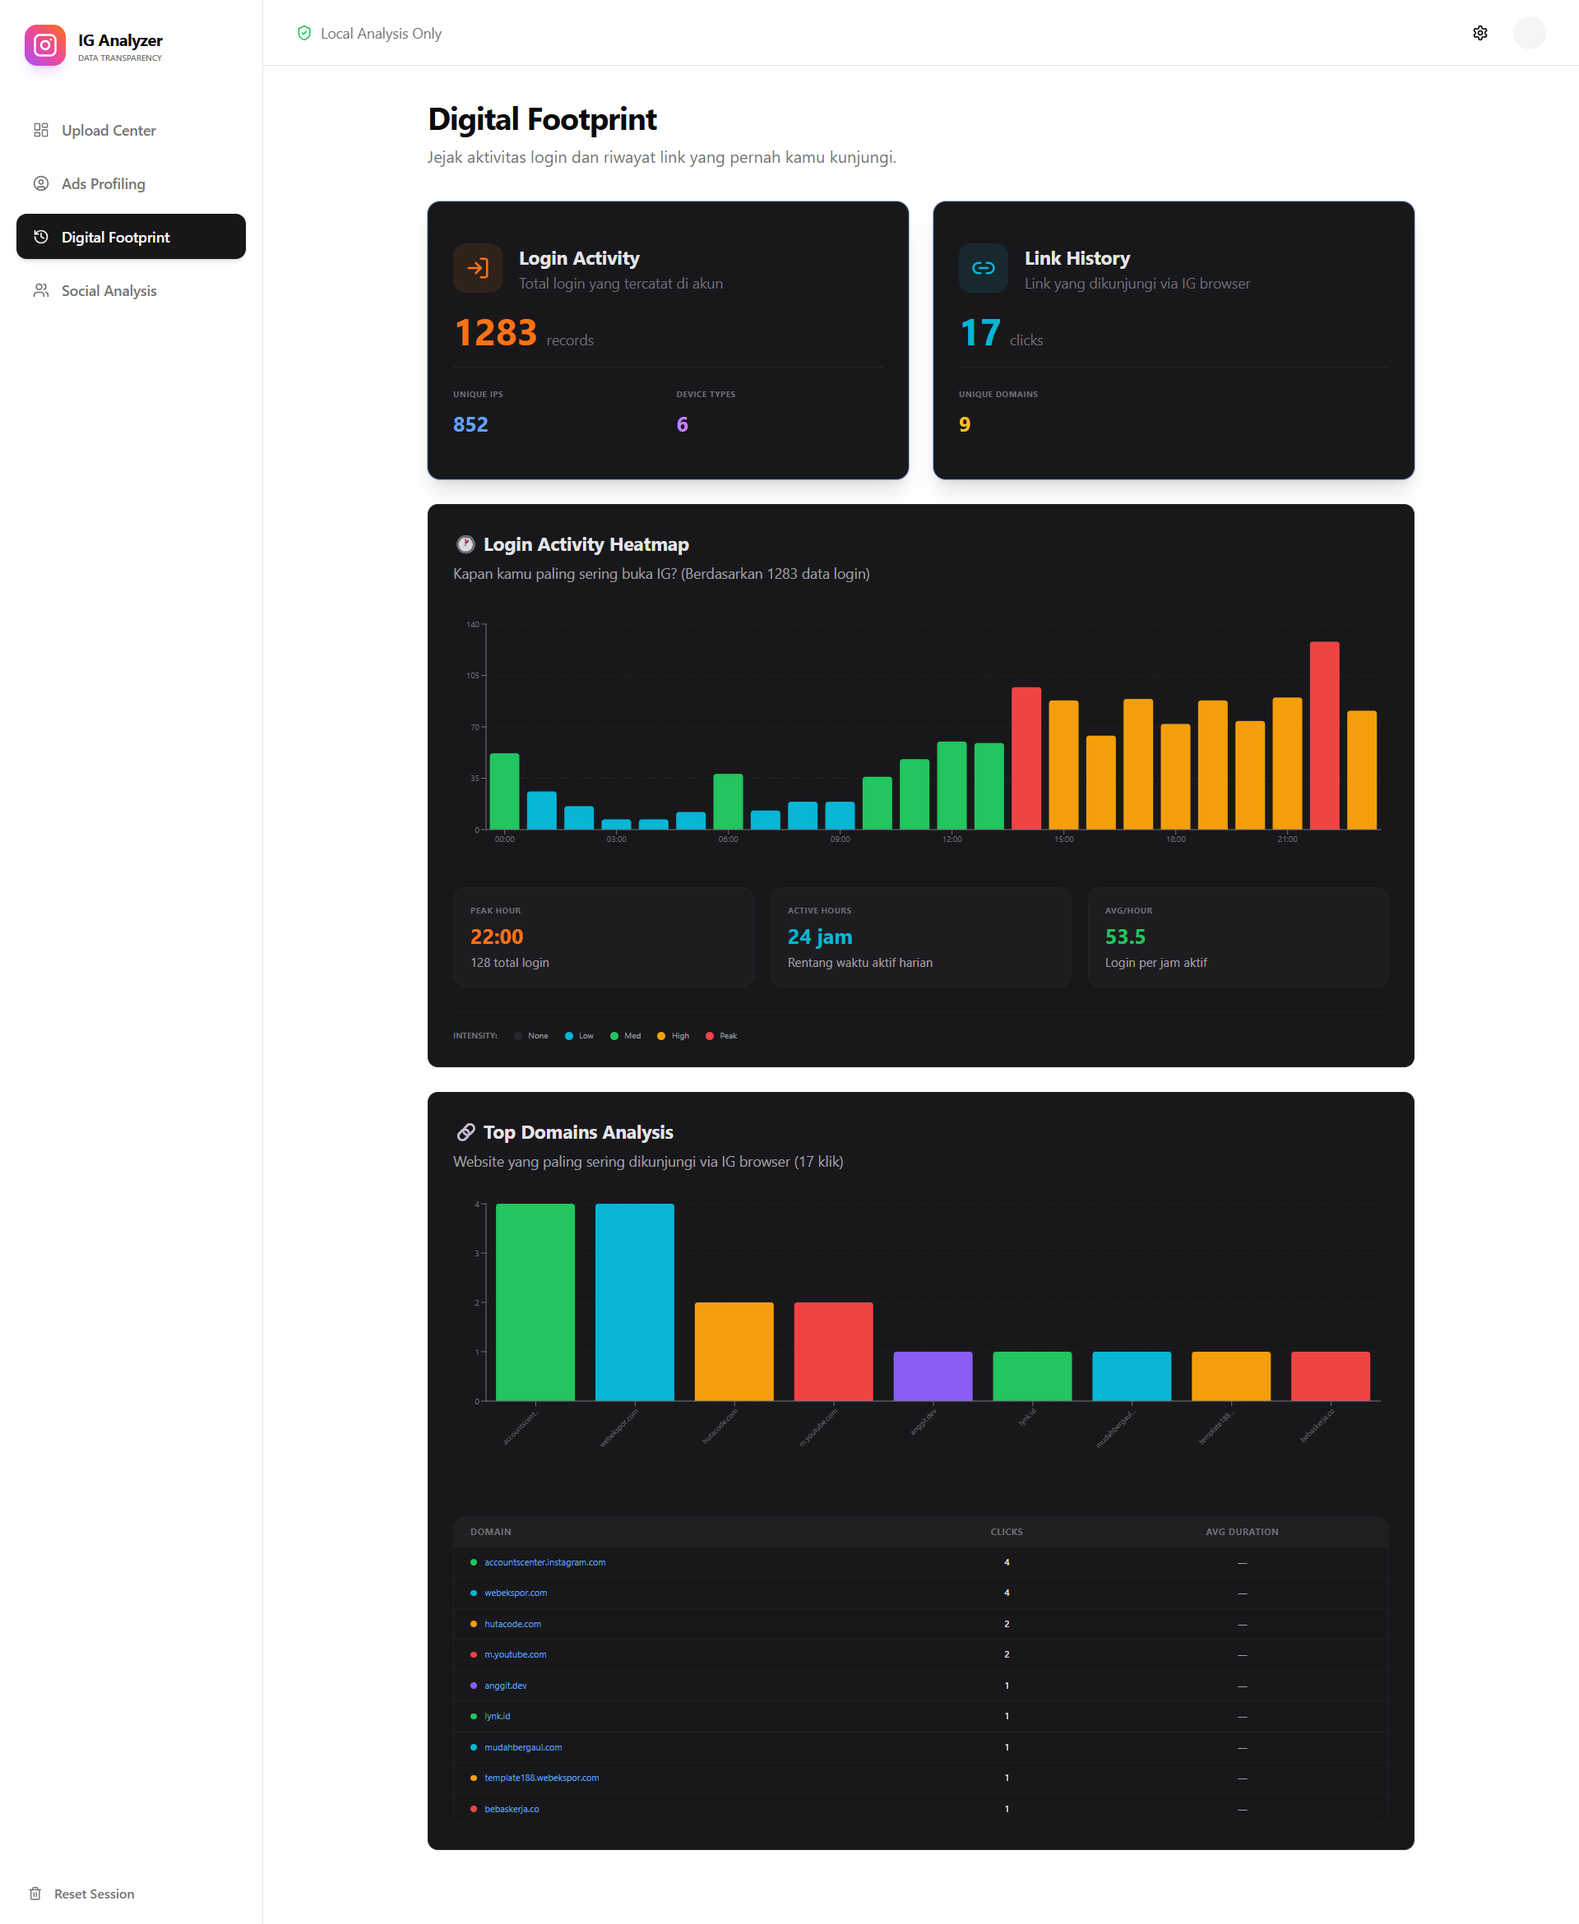
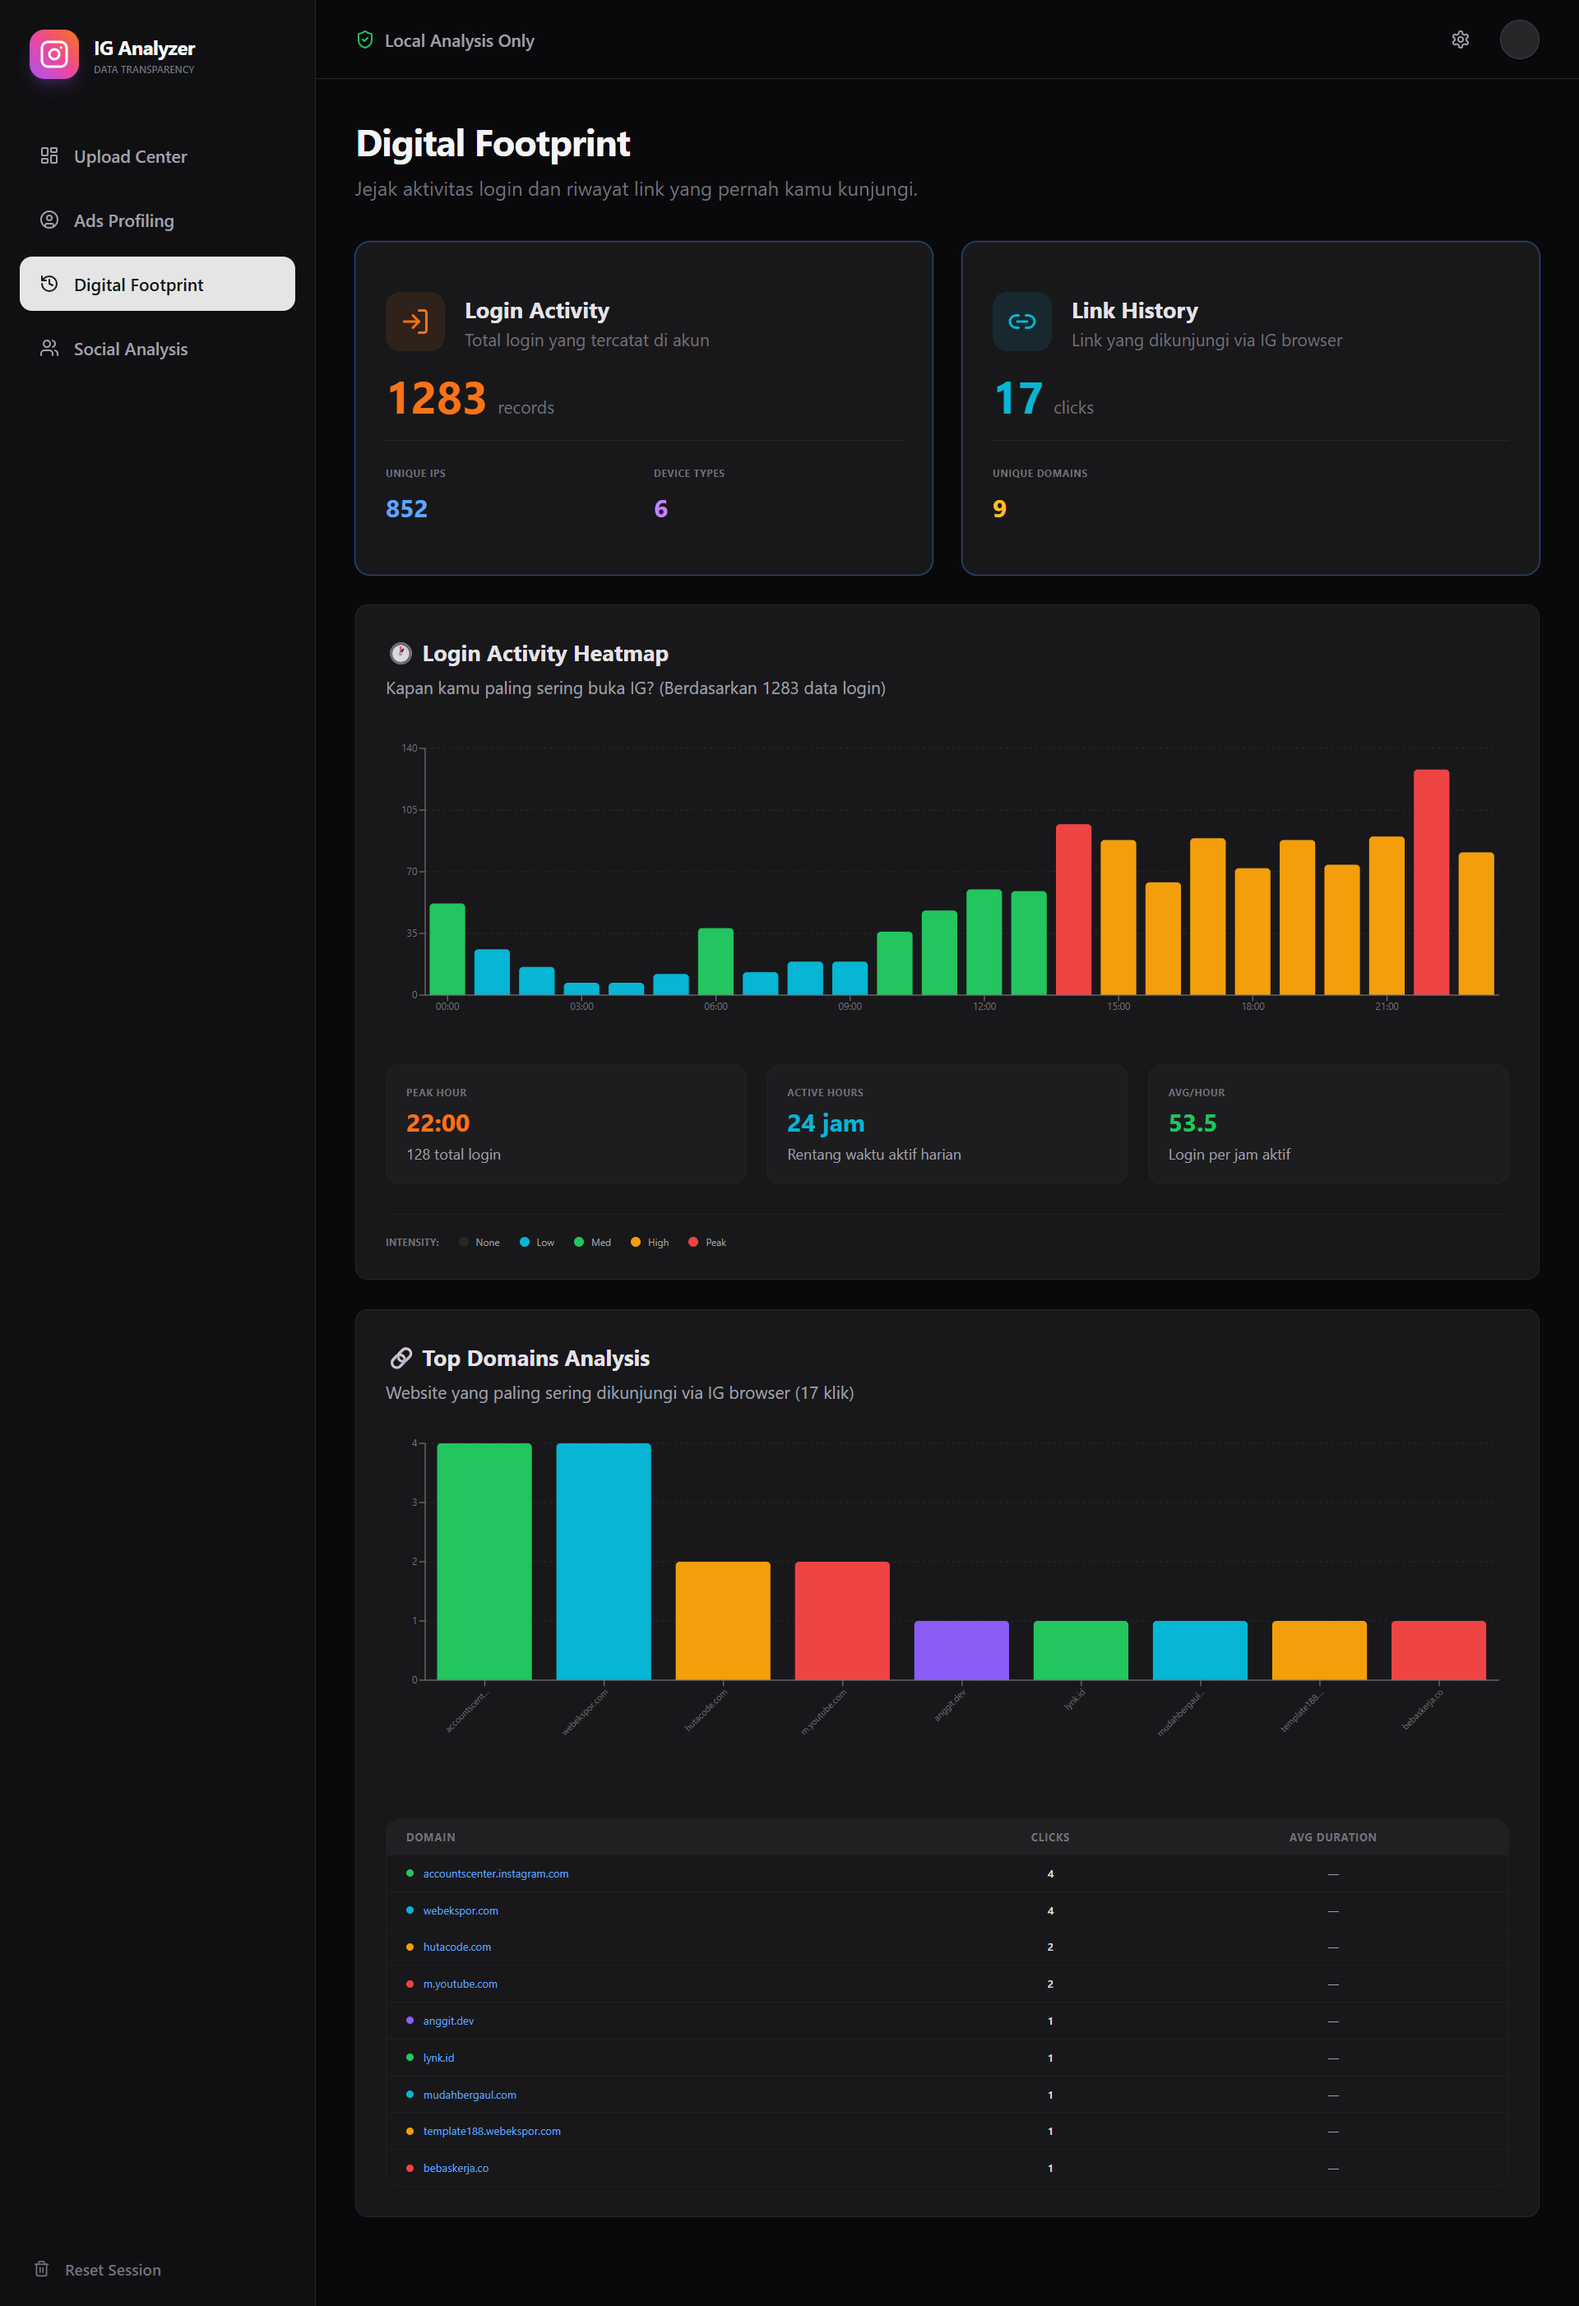
docs: update README with new screenshots and mobile features

diff --git a/README.md b/README.md
@@ -9,7 +9,8 @@ Dashboard ini menganalisis data Instagram kamu yang di-export dari Meta, memberi
 ### Key Features
 ✅ **Privacy-First**: Semua processing dilakukan local di browser (tidak ada data yang dikirim ke server).
 ✅ **Smart Classification**: AI-powered categorization untuk bisnis (13+ kategori), data source, & privacy risk.
-✅ **Deep Visualization**: Interactive Heatmap, pie charts, dan bar charts menggunakan Recharts.
+✅ ✅ **Deep Visualization**: Interactive Heatmap, pie charts, dan bar charts menggunakan Recharts.
+✅ **Mobile Responsive**: Dashboard dioptimalkan untuk tampilan HP dengan Mobile Navigation Bar.
 ✅ **Security Focused**: Severity scoring untuk menilai seberapa jauh privasi kamu terancam oleh pengiklan.
 
 ---
@@ -78,7 +79,7 @@ Dashboard ini menganalisis data Instagram kamu yang di-export dari Meta, memberi
 ## 📈 Visualization & Modules
 
 ### 1. Upload Centre (Overview)
-![Upload Centre](docs/screenshots/upload_centre.png)
+![Upload Centre](docs/screenshots/upload_center.png)
 Pintu masuk utama untuk proses data. Sistem auto-detect file yang kamu masukkan dan memberikan status real-time.
 
 ### 2. Ads Profiling Module
